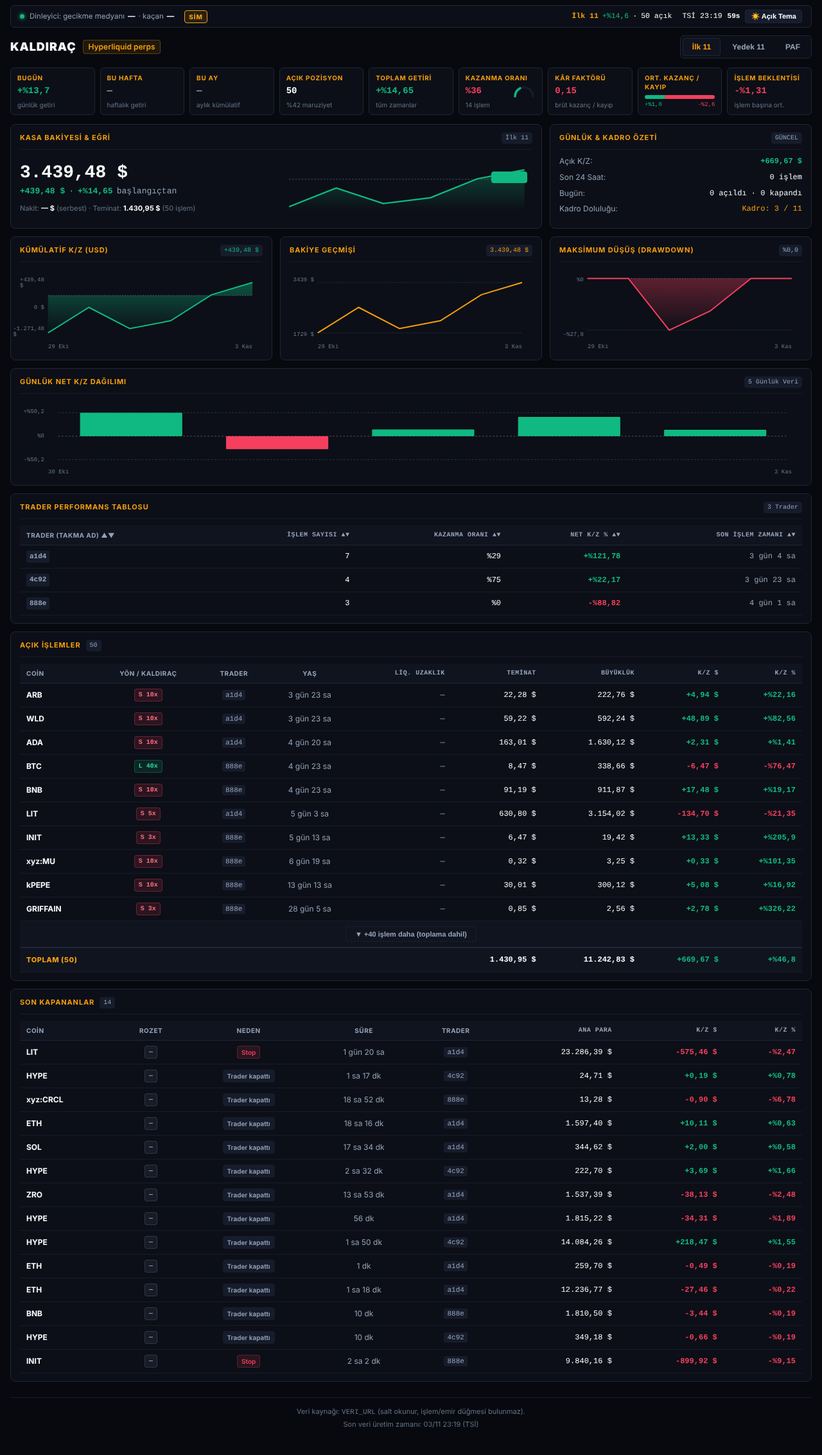
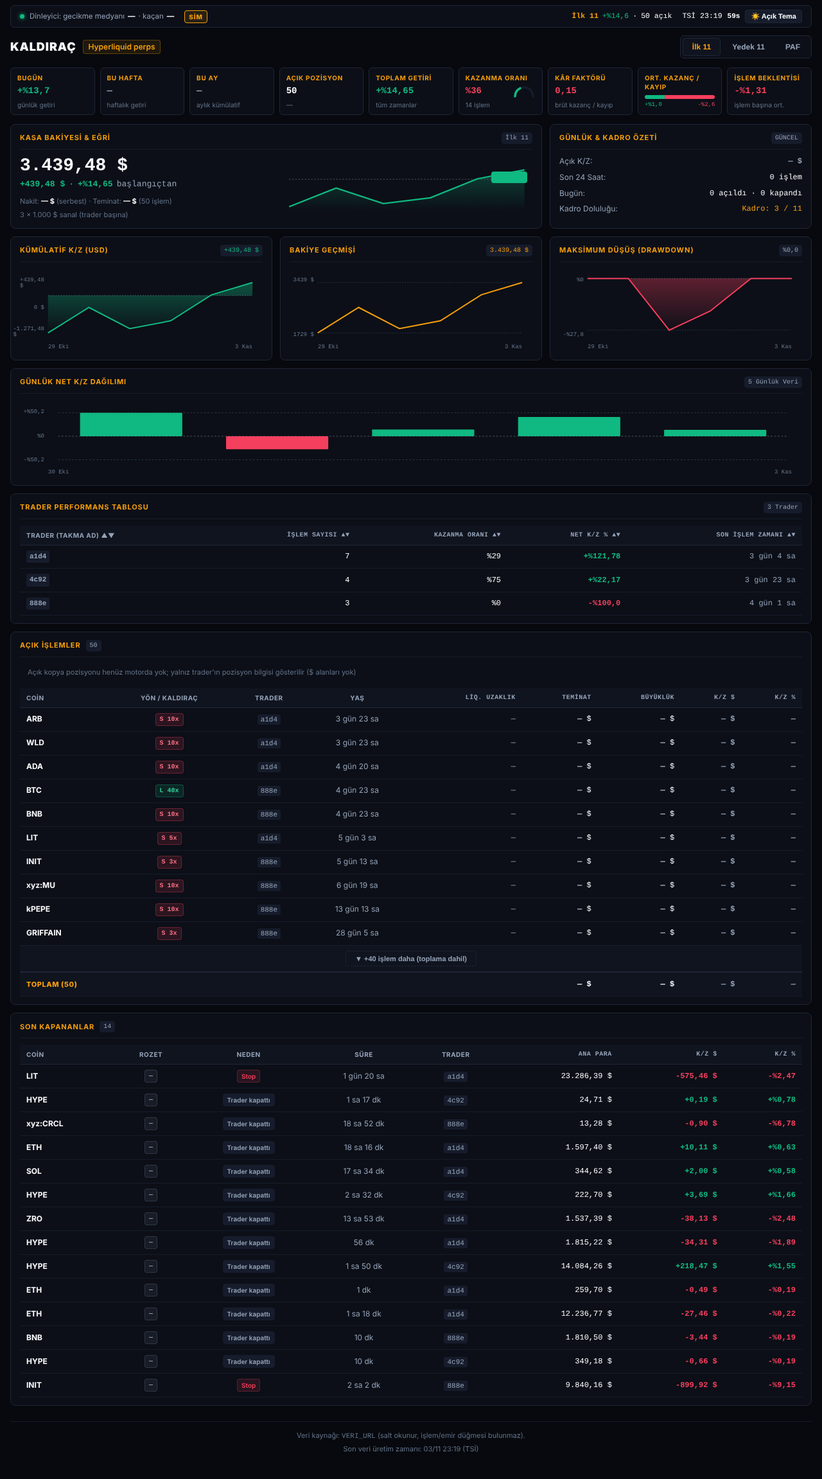
Pano: açık işlemlerde yalnız trader bilgisi ($ alanları null), kasa ölçek notu, net_oran=getiri, TOPLAM satırı null-güvenli, ekran görüntüleri
Claude-Session: https://claude.ai/code/session_01MMmx1yUW1gNqcdZMK3Fk7w

diff --git a/pano/pano.js b/pano/pano.js
@@ -616,6 +616,11 @@ function kasaKartiniCiz(takim) {
   const takimAdEl = document.getElementById('kasa-takim-ad');
 
   if (takimAdEl) takimAdEl.textContent = kacis(takim.ad);
+  // Ölçek notları motordan gelir (pano.json): kasa "N × 1.000 $ sanal (trader başına)"; açık işlemler "açık kopya pozisyonu henüz motorda yok"
+  const kasaNotEl = document.getElementById('kasa-olcek-notu');
+  if (kasaNotEl) kasaNotEl.textContent = kasa.olcek_notu ? String(kasa.olcek_notu) : '';
+  const acikNotEl = document.getElementById('acik-olcek-notu');
+  if (acikNotEl) acikNotEl.textContent = (panoVerisi.olcek && panoVerisi.olcek.acik_islemler) ? String(panoVerisi.olcek.acik_islemler) : '';
   if (bakiyeEl) bakiyeEl.textContent = formatPara(kasa.bakiye_usd);
 
   if (degisimEl) {
@@ -1308,17 +1313,13 @@ function toplamSatiriniCiz(acikListesi) {
   const tfoot = document.getElementById('acik-islemler-foot');
   if (!tfoot) return;
 
-  let toplamTeminat = 0;
-  let toplamBuyukluk = 0;
-  let toplamKzUsd = 0;
-
-  acikListesi.forEach(pos => {
-    toplamTeminat += Number(pos.teminat_usd) || 0;
-    toplamBuyukluk += Number(pos.buyukluk_usd) || 0;
-    toplamKzUsd += Number(pos.kz_usd) || 0;
-  });
-
-  const toplamKzOran = toplamTeminat > 0 ? (toplamKzUsd / toplamTeminat) : 0;
+  // Eksik alan uydurulmaz: bir satırda değer yoksa (null) toplam da yoktur ("—"); sıfır gösterilmez.
+  const topla = (alan) => (acikListesi.length && acikListesi.every(p => typeof p[alan] === 'number' && isFinite(p[alan])))
+    ? acikListesi.reduce((t, p) => t + p[alan], 0) : null;
+  const toplamTeminat = topla('teminat_usd');
+  const toplamBuyukluk = topla('buyukluk_usd');
+  const toplamKzUsd = topla('kz_usd');
+  const toplamKzOran = (toplamKzUsd !== null && toplamTeminat !== null && toplamTeminat > 0) ? (toplamKzUsd / toplamTeminat) : null;
   const kzCls = kzSinifi(toplamKzUsd);
 
   tfoot.innerHTML = `

diff --git a/pano/index.html b/pano/index.html
@@ -165,6 +165,7 @@
               Nakit: <strong id="ozet-nakit" style="color:var(--text-primary);">— $</strong> (serbest) · 
               Teminat: <strong id="ozet-teminat" style="color:var(--text-primary);">— $</strong> (<span id="ozet-teminat-alt">—</span>)
             </div>
+            <div style="margin-top:6px;font-size:11px;color:var(--text-muted);" id="kasa-olcek-notu"></div>
           </div>
           <div class="chart-box" id="kasa-grafik" style="height:100px;"></div>
         </div>
@@ -265,6 +266,7 @@
             <span class="panel-badge" id="acik-islem-sayisi">0</span>
           </div>
         </div>
+        <div style="padding:6px 12px;font-size:11px;color:var(--text-muted);" id="acik-olcek-notu"></div>
         <div class="table-responsive">
           <table class="terminal-table">
             <thead>

diff --git a/tests/test_pano_veri.py b/tests/test_pano_veri.py
@@ -24,9 +24,9 @@ def durum():
     poz_a = [{"coin": "BTC", "yon": "long", "giris": 68000.0, "buyukluk_usd": 50000.0, "kaldirac": 5.0, "anlik_kz_usd": 2000.0, "acilis": "2026-11-03T02:00:00Z"},
              {"coin": "ETH", "yon": "short", "giris": 2600.0, "buyukluk_usd": 20000.0, "kaldirac": 4.0, "anlik_kz_usd": -500.0, "acilis": "2026-11-02T20:00:00Z"}]
     poz_b = [{"coin": "SOL", "yon": "long", "giris": 150.0, "buyukluk_usd": 40000.0, "kaldirac": 10.0, "anlik_kz_usd": 1000.0, "acilis": "2026-11-03T03:00:00Z"}]
-    v3_a = {"surum": "v3", "baslangic_usd": 1000, "bakiye_usd": 1100.0, "toplam": 0.1, "egri": [["2026-11-01", 1000.0], ["2026-11-02", 1050.0], ["2026-11-03", 1100.0]],
+    v3_a = {"surum": "v3", "baslangic_usd": 1000, "bakiye_usd": 1100.0, "getiri": 0.1, "toplam": 0.1, "egri": [["2026-11-01", 1000.0], ["2026-11-02", 1050.0], ["2026-11-03", 1100.0]],
             "kapanan_islemler": [{"coin": "BTC", "acilis": "2026-11-03T01:00:00Z", "kapanis": "2026-11-03T05:00:00Z", "sonuc_usd": 20.0, "getiri": 0.2, "neden": "trader", "gecerli": True}]}
-    v3_b = {"surum": "v3", "baslangic_usd": 1000, "bakiye_usd": 990.0, "toplam": -0.01, "egri": [["2026-11-01", 1000.0], ["2026-11-02", 995.0], ["2026-11-03", 990.0]],
+    v3_b = {"surum": "v3", "baslangic_usd": 1000, "bakiye_usd": 990.0, "getiri": -0.01, "toplam": -0.01, "egri": [["2026-11-01", 1000.0], ["2026-11-02", 995.0], ["2026-11-03", 990.0]],
             "kapanan_islemler": [{"coin": "SOL", "acilis": "2026-11-02T08:00:00Z", "kapanis": "2026-11-02T10:00:00Z", "sonuc_usd": -5.0, "getiri": -0.05, "neden": "zarar_kes", "gecerli": True}]}
     return {"surum": 1, "uretildi": REF, "traderlar": [trader(A, "aaaa", 10000.0, poz_a, v3_a), trader(B, "bbbb", 20000.0, poz_b, v3_b)]}
 
@@ -46,29 +46,31 @@ def test_altin_ornek_iki_takim_uc_acik_iki_kapanmis():
     i, y = takim(v, "İlk 11"), takim(v, "Yedek 11")
     # İlk 11 / kasa: 1.000 -> 1.100 (+100 $, +%10)
     assert i["kasa"] == {"baslangic_usd": 1000.0, "bakiye_usd": 1100.0, "degisim_usd": 100.0, "degisim_oran": 0.1,
-                         "egri": [["2026-11-01T00:00:00Z", 1000.0], ["2026-11-02T00:00:00Z", 1050.0], ["2026-11-03T00:00:00Z", 1100.0]]}
-    # açık işlemler (ölçek 0,1): BTC büyüklük 5.000, teminat 1.000, K/Z 200 $ (+%20 teminata); ETH 2.000 / 500 / −50 $ (−%10)
+                         "egri": [["2026-11-01T00:00:00Z", 1000.0], ["2026-11-02T00:00:00Z", 1050.0], ["2026-11-03T00:00:00Z", 1100.0]],
+                         "olcek_notu": "1 × 1.000 $ sanal (trader başına)"}
+    # açık işlemler: yalnız trader pozisyon bilgisi (lider kararı); $ alanları ve kz_oran null — oranlı ölçek sayıları yayımlanmaz
     btc, eth = (next(a for a in i["acik"] if a["coin"] == c) for c in ("BTC", "ETH"))
-    assert (btc["buyukluk_usd"], btc["teminat_usd"], btc["kz_usd"], btc["kz_oran"], btc["kaldirac"], btc["trader"]) == (5000.0, 1000.0, 200.0, 0.2, 5.0, "aaaa")
-    assert (eth["buyukluk_usd"], eth["teminat_usd"], eth["kz_usd"], eth["kz_oran"]) == (2000.0, 500.0, -50.0, -0.1)
-    assert btc["son"] is None and btc["likidasyona_uzaklik_oran"] is None                              # motorda yok -> null
+    assert (btc["coin"], btc["yon"], btc["kaldirac"], btc["trader"], btc["acilis"]) == ("BTC", "long", 5.0, "aaaa", "2026-11-03T02:00:00Z")
+    assert (eth["yon"], eth["kaldirac"]) == ("short", 4.0)
+    for a in i["acik"] + takim(v, "Yedek 11")["acik"]:
+        assert all(a[k] is None for k in ("teminat_usd", "buyukluk_usd", "giris", "son", "kz_usd", "kz_oran", "likidasyona_uzaklik_oran")), a
     o = i["ozet"]
-    assert (o["acik_islem"], o["acik_teminat_usd"], o["acik_kz_usd"]) == (2, 1500.0, 150.0)
+    assert (o["acik_islem"], o["acik_teminat_usd"], o["acik_kz_usd"]) == (2, None, None)                  # acik'tan türeyen $ alanları null; sayı trader pozisyon adedi
     assert (o["bugun_acilan"], o["bugun_kapanan"], o["son24_islem"], o["son24_kazanma_orani"]) == (2, 1, 1, 1.0)       # BTC açık + BTC kapanan bugün açıldı
     assert (o["kadro_dolu"], o["kadro_toplam"], o["nakit_usd"], o["islem_basi_usd"]) == (1, 2, None, None)
+    assert i["kasa"]["olcek_notu"] == "1 × 1.000 $ sanal (trader başına)" and "henüz motorda yok" in v["olcek"]["acik_islemler"]
     # kapanan: ana para = 20 / 0,2 = 100 $; neden trader -> trader_kapatti
     assert i["kapanan"] == [{"coin": "BTC", "yon": None, "kaldirac": None, "trader": "aaaa", "acilis": "2026-11-03T01:00:00Z", "kapanis": "2026-11-03T05:00:00Z",
                              "neden": "trader_kapatti", "ana_para_usd": 100.0, "kz_usd": 20.0, "kz_oran": 0.2}]
     m = i["metrik"]
     assert m["bugun_oran"] == pytest.approx(50 / 1050, abs=1e-6) and m["toplam_oran"] == 0.1 and m["hafta_oran"] is None and m["ay_oran"] is None
-    assert m["maruziyet_oran"] == pytest.approx(1500 / 1100, abs=1e-6) and (m["kazanma_orani"], m["ort_kazanc_oran"], m["beklenti_oran"], m["islem_sayisi"]) == (1.0, 0.2, 0.2, 1)
+    assert m["maruziyet_oran"] is None and (m["kazanma_orani"], m["ort_kazanc_oran"], m["beklenti_oran"], m["islem_sayisi"]) == (1.0, 0.2, 0.2, 1)
     assert m["kar_faktoru"] is None and m["ort_kayip_oran"] is None                                      # kayıp yok -> tanımsız
     assert i["seriler"]["bakiye"][-1] == ["2026-11-03", 1100.0] and i["seriler"]["kumulatif_kz"][-1] == ["2026-11-03", 100.0]
     assert i["seriler"]["gunluk_kz"] == [["2026-11-02", 0.05], ["2026-11-03", 0.047619]] and i["seriler"]["dusus"][-1] == ["2026-11-03", 0.0]
     assert i["traderlar"] == [{"ad": "aaaa", "islem": 1, "kazanma_orani": 1.0, "net_oran": 0.1, "son_islem": "2026-11-03T05:00:00Z"}]
-    # Yedek 11 (ölçek 0,05): SOL büyüklük 2.000, teminat 200, K/Z 50 $ (+%25); kasa 1.000 -> 990 (−10 $, −%1)
-    s = y["acik"][0]
-    assert (s["buyukluk_usd"], s["teminat_usd"], s["kz_usd"], s["kz_oran"]) == (2000.0, 200.0, 50.0, 0.25)
+    # Yedek 11: SOL açık (yalnız trader bilgisi); kasa 1.000 -> 990 (−10 $, −%1)
+    assert y["acik"][0]["coin"] == "SOL" and y["acik"][0]["kaldirac"] == 10.0
     assert (y["kasa"]["bakiye_usd"], y["kasa"]["degisim_usd"], y["kasa"]["degisim_oran"]) == (990.0, -10.0, -0.01)
     assert (y["ozet"]["bugun_acilan"], y["ozet"]["bugun_kapanan"], y["ozet"]["son24_islem"], y["ozet"]["son24_kazanma_orani"]) == (1, 0, 0, None)
     assert (y["metrik"]["kazanma_orani"], y["metrik"]["kar_faktoru"], y["metrik"]["ort_kayip_oran"]) == (0.0, 0.0, -0.05)
@@ -79,23 +81,19 @@ def test_altin_ornek_iki_takim_uc_acik_iki_kapanmis():
 
 def test_eksik_alan_null_uydurulmaz():
     d = durum()
-    p = d["traderlar"][0]["pozisyonlar"][0]
-    del p["anlik_kz_usd"], p["kaldirac"]
-    del d["traderlar"][1]["sanal_kopya_v3"]["toplam"]
+    del d["traderlar"][0]["pozisyonlar"][0]["kaldirac"]
+    del d["traderlar"][1]["sanal_kopya_v3"]["getiri"]
     d["traderlar"][1]["sanal_kopya_v3"]["kapanan_islemler"][0]["getiri"] = None
     v = pano_veri.pano_uret(d, LISTE, SNAP, SIMDI)
     btc = next(a for a in takim(v, "İlk 11")["acik"] if a["coin"] == "BTC")
-    assert (btc["kz_usd"], btc["kz_oran"], btc["teminat_usd"], btc["kaldirac"]) == (None, None, None, None) and btc["buyukluk_usd"] == 5000.0
-    o = takim(v, "İlk 11")["ozet"]
-    assert o["acik_teminat_usd"] is None and o["acik_kz_usd"] is None and o["acik_islem"] == 2          # biri eksikse toplam null; sayı sıfır değil
-    assert takim(v, "İlk 11")["metrik"]["maruziyet_oran"] is None
+    assert btc["kaldirac"] is None and btc["coin"] == "BTC"
     y = takim(v, "Yedek 11")
     assert y["traderlar"][0]["net_oran"] is None and y["kapanan"][0]["ana_para_usd"] is None and y["kapanan"][0]["kz_oran"] is None and y["kapanan"][0]["kz_usd"] == -5.0
     # v3 hiç yoksa takım verisi null (0 değil)
     d2 = durum()
     d2["traderlar"][0]["sanal_kopya_v3"] = {"surum": "v3", "durum": "hesaplanamadi"}
     t = takim(pano_veri.pano_uret(d2, LISTE, SNAP, SIMDI), "İlk 11")
-    assert t["kasa"]["bakiye_usd"] is None and t["ozet"]["acik_islem"] is None and t["acik"] == [] and t["ozet"]["kadro_dolu"] == 0
+    assert t["kasa"]["bakiye_usd"] is None and t["kasa"]["olcek_notu"] is None and t["ozet"]["acik_islem"] is None and t["acik"] == [] and t["ozet"]["kadro_dolu"] == 0
 
 
 def test_baslamamis_uye_t0_gelecekte_toplamlara_girmez():
@@ -114,10 +112,17 @@ def test_acilis_bos_metin_null_olur():
     assert next(a for a in takim(pano_veri.pano_uret(d, LISTE, SNAP, SIMDI), "İlk 11")["acik"] if a["coin"] == "BTC")["acilis"] is None
 
 
+def test_net_oran_getiri_kullanir_tasfiyede_toplam_degil():
+    """Tasfiye olan kopyada `toplam` (gerçekleşen+açık) −0,888 olabilir ama bakiye 0'dır (`getiri` −1,0): pano bakiye ile tutarlı `getiri`'yi gösterir."""
+    d = durum()
+    d["traderlar"][0]["sanal_kopya_v3"].update({"bakiye_usd": 0.0, "getiri": -1.0, "toplam": -0.888, "tasfiye": True})
+    assert takim(pano_veri.pano_uret(d, LISTE, SNAP, SIMDI), "İlk 11")["traderlar"][0]["net_oran"] == -1.0
+
+
 def test_bos_takim():
     v = pano_veri.pano_uret(durum(), LISTE, SNAP, SIMDI)
     paf = takim(v, "PAF")
-    assert paf["kasa"] == {"baslangic_usd": None, "bakiye_usd": None, "degisim_usd": None, "degisim_oran": None, "egri": []}
+    assert paf["kasa"] == {"baslangic_usd": None, "bakiye_usd": None, "degisim_usd": None, "degisim_oran": None, "egri": [], "olcek_notu": None}
     assert paf["acik"] == [] and paf["kapanan"] == [] and paf["traderlar"] == [] and all(x == [] for x in paf["seriler"].values())
     assert (paf["ozet"]["kadro_dolu"], paf["ozet"]["kadro_toplam"], paf["ozet"]["acik_islem"]) == (0, 1, None)
     assert all(x is None for x in paf["metrik"].values())
@@ -139,7 +144,7 @@ def test_bicim_ornek_veri_ile_ayni_ek_alanlar_haric_ve_gizlilik():
     assert set(v) - set(ornek) == {"tazelik", "olcek"} and set(ornek) <= set(v)
     for ad in ("İlk 11", "Yedek 11"):
         t, o = takim(v, ad), ornek["takimlar"][0]
-        assert set(t) == set(o) and all(set(t[k]) == set(o[k]) for k in ("kasa", "ozet", "metrik", "seriler"))
+        assert set(t) == set(o) and all(set(t[k]) == set(o[k]) for k in ("ozet", "metrik", "seriler")) and set(t["kasa"]) - set(o["kasa"]) == {"olcek_notu"}
         assert t["acik"] == [] or set(t["acik"][0]) == set(o["acik"][0])
         assert t["kapanan"] == [] or set(t["kapanan"][0]) == set(o["kapanan"][0])
         assert t["traderlar"] == [] or set(t["traderlar"][0]) == set(o["traderlar"][0])

diff --git a/copytrade/pano_veri.py b/copytrade/pano_veri.py
@@ -67,18 +67,12 @@ def v3_gecerli(trader: dict) -> dict | None:
 
 
 def acik_islemler(trader: dict) -> list[dict]:
-    """Trader pozisyonları, 1.000 $ sanal hesaba ORANLI ölçekte (ölçek = 1.000 / trader hesap değeri; v1/v2 ölçeği). Motorda olmayan alan `null`."""
-    hesap = _sayi(trader.get("hesap_degeri"))
-    olcek = BAZ_USD / hesap if hesap and hesap > 0 else None
+    """Açık işlemler: YALNIZ trader'ın pozisyon bilgisi (coin, yön, kaldıraç, trader, açılış). Açık KOPYA pozisyonu henüz motorda yok (v3 listelemiyor); trader pozisyonunu
+    1.000 $'a oranlayıp $ / K/Z üretmek kullanıcıyı yanıltır (lider kararı 2026-11-03) → tüm $ alanları ve `kz_oran` `null`."""
     cikti = []
     for poz in trader.get("pozisyonlar") or []:
-        buyukluk, kz, kaldirac = _sayi(poz.get("buyukluk_usd")), _sayi(poz.get("anlik_kz_usd")), _sayi(poz.get("kaldirac"))
-        buyukluk_k = None if buyukluk is None or olcek is None else abs(buyukluk) * olcek
-        teminat = None if buyukluk_k is None or not kaldirac or kaldirac <= 0 else buyukluk_k / kaldirac
-        kz_k = None if kz is None or olcek is None else kz * olcek
-        cikti.append({"coin": poz.get("coin"), "yon": poz.get("yon"), "kaldirac": kaldirac, "trader": trader.get("takma_ad"), "acilis": poz.get("acilis") or None,
-                      "teminat_usd": _yuvarla(teminat, 4), "buyukluk_usd": _yuvarla(buyukluk_k, 4), "giris": _sayi(poz.get("giris")), "son": None,
-                      "kz_usd": _yuvarla(kz_k, 4), "kz_oran": _yuvarla(_oran(kz_k, teminat), 6), "likidasyona_uzaklik_oran": None})
+        cikti.append({"coin": poz.get("coin"), "yon": poz.get("yon"), "kaldirac": _sayi(poz.get("kaldirac")), "trader": trader.get("takma_ad"), "acilis": poz.get("acilis") or None,
+                      "teminat_usd": None, "buyukluk_usd": None, "giris": None, "son": None, "kz_usd": None, "kz_oran": None, "likidasyona_uzaklik_oran": None})
     return cikti
 
 
@@ -134,7 +128,7 @@ def takim_uret(takim_ad: str, uyeler: list[dict], durum_traderlar: dict[str, dic
     getiriler = [k["kz_oran"] for k in kapanan_tum if k["kz_oran"] is not None]
     kazan_g = [g for k in kapanan_tum if (g := k["kz_oran"]) is not None and (k["kz_usd"] or 0) > 0]
     kayip_g = [g for k in kapanan_tum if (g := k["kz_oran"]) is not None and (k["kz_usd"] or 0) <= 0]
-    teminat = _toplam([a["teminat_usd"] for a in acik]) if var else None
+    teminat = _toplam([a["teminat_usd"] for a in acik]) if var else None          # `acik` $ alanları null olduğundan None
     kz_acik = _toplam([a["kz_usd"] for a in acik]) if var else None
     kayip_toplam = sum(-x for x in kazanc if x <= 0)
     degisim = None if bakiye is None else bakiye - baslangic
@@ -166,10 +160,11 @@ def takim_uret(takim_ad: str, uyeler: list[dict], durum_traderlar: dict[str, dic
     for u, t, v in v3li:
         k = kapanan_islemler(t)
         traderlar.append({"ad": t.get("takma_ad"), "islem": len(k), "kazanma_orani": _yuvarla(_oran(sum(1 for x in k if (x["kz_usd"] or 0) > 0), len(k)), 6),
-                          "net_oran": _yuvarla(_sayi(v.get("toplam")), 6), "son_islem": max((str(x["kapanis"]) for x in k if x["kapanis"]), default=None)})
+                          "net_oran": _yuvarla(_sayi(v.get("getiri")), 6), "son_islem": max((str(x["kapanis"]) for x in k if x["kapanis"]), default=None)})
     return {"ad": takim_ad,
             "kasa": {"baslangic_usd": _yuvarla(baslangic, 4), "bakiye_usd": _yuvarla(bakiye, 4), "degisim_usd": _yuvarla(degisim, 4),
-                     "degisim_oran": _yuvarla(_oran(degisim, baslangic), 6), "egri": [[f"{g}T00:00:00Z", round(v, 4)] for g, v in egri[-SERI_LIMIT:]]},
+                     "degisim_oran": _yuvarla(_oran(degisim, baslangic), 6), "egri": [[f"{g}T00:00:00Z", round(v, 4)] for g, v in egri[-SERI_LIMIT:]],
+                     "olcek_notu": f"{len(v3li)} × 1.000 $ sanal (trader başına)" if var else None},
             "ozet": ozet, "metrik": metrik,
             "seriler": {"kumulatif_kz": [[g, round(v - baslangic, 4)] for g, v in bakiye_seri], "bakiye": [[g, round(v, 4)] for g, v in bakiye_seri],
                         "dusus": [[g, round(d, 6)] for g, d in dusus[-SERI_LIMIT:]], "gunluk_kz": [[g, round(d, 6)] for g, d in gunluk[-SERI_LIMIT:] if d is not None]},
@@ -192,7 +187,7 @@ def pano_uret(durum: dict, liste: dict, snapshot: dict | None, simdi: datetime |
             "tazelik": {"kaynak_uretildi": _iso(kaynak) if kaynak else None, "pano_uretildi": _iso(simdi), "yas_dk": None if yas is None else round(yas, 1),
                         "esik_dk": BAYAT_DK, "bayat": True if yas is None else yas > BAYAT_DK},
             "olcek": {"kasa_ve_kapanan": "1.000 $ sanal kopya, sabit tutar (sanal_kopya_v3), trader başına; takım değeri üyelerin TOPLAMI",
-                      "acik_islemler": "1.000 $ sanal hesaba ORANLI (ölçek = 1.000 / trader hesap değeri); trader pozisyonundan, v3 sabit tutarından değil"},
+                      "acik_islemler": "Açık kopya pozisyonu henüz motorda yok; yalnız trader'ın pozisyon bilgisi gösterilir ($ alanları yok)"},
             "takimlar": [takim_uret(ad, uyeler[k], tr, toplam[k], ref) for k, ad in TAKIMLAR]}
 
 

diff --git a/docs/VERI_SOZLESMESI.md b/docs/VERI_SOZLESMESI.md
@@ -412,9 +412,9 @@ Girdiler (yalnız okunur): `copytrade-izleme:izleme/durum.json`, `copytrade-kapi
 Biçim `pano/ornek_veri.json` ile aynıdır; **panonun JS'i hiçbir şey hesaplamaz** (AGENTS kural 7). Motorda olmayan alan **`null`** (pano "—" gösterir); eksik alan sıfır sayılmaz, uydurulmaz: bir toplamın bir bileşeni `null` ise toplam `null`.
 Oranlar kesirdir (0,012 = %1,2); zaman UTC; üyelik yalnız `takim` alanından (`kol` / `kollar` kullanılmaz). Takımlar sabit sırayla: `İlk 11`, `Yedek 11`, `PAF`.
 
-**İki ölçek (ekranda karışmasın diye `olcek` bloğunda yazılıdır):**
-- **Sabit tutar (v3)** = `sanal_kopya_v3`, trader başına 1.000 $ sanal kopya (kopya hesabının kendi değerine göre sabit $ tutarla açılış): `kasa`, `seriler`, `metrik`, `kapanan`, `traderlar`. **Takım değeri üyelerin TOPLAMIDIR** (her üye 1.000 $ ile başlar): `kasa.baslangic_usd` = 1.000 × veri veren üye sayısı.
-- **Trader hesabına ORANLI 1.000 $** (v1/v2 ölçeği) = yalnız `acik` (açık işlemler) ve ona bağlı `ozet` alanları: ölçek = 1.000 / `hesap_degeri` (trader hesap değeri, $). Açık kopya pozisyonu motorda v3 sabit tutarıyla listelenmediği için (`kapanan_islemler`: "açık işlem listelenmez") açık satırlar trader pozisyonundan bu ölçekle türetilir. İki ölçek toplamda uzlaşmaz (ör. `kasa.bakiye_usd` v3, `acik_kz_usd` oranlı).
+**Ölçek (ekranda ve `olcek` bloğunda yazılıdır):**
+- **Sabit tutar (v3)** = `sanal_kopya_v3`, trader başına 1.000 $ sanal kopya (kopya hesabının kendi değerine göre sabit $ tutarla açılış): `kasa`, `seriler`, `metrik`, `kapanan`, `traderlar`. **Takım değeri üyelerin TOPLAMIDIR** (her üye 1.000 $ ile başlar): `kasa.baslangic_usd` = 1.000 × toplama giren üye sayısı. `kasa.olcek_notu` = `"<N> × 1.000 $ sanal (trader başına)"` (pano kasa kartında gösterir).
+- **Açık işlemler: açık KOPYA pozisyonu henüz motorda YOK** (lider kararı 2026-11-03; ayrı iş: v3 açık pozisyon listesi). `acik[]` yalnız trader'ın pozisyon bilgisini taşır (`coin`, `yon`, `kaldirac`, `trader`, `acilis`); **tüm $ alanları ve `kz_oran` `null`** (trader pozisyonunu 1.000 $'a oranlamak kullanıcıyı yanıltır, yayımlanmaz). `olcek.acik_islemler` bu notu taşır (pano açık işlemler başlığının altında gösterir).
 
 | Alan | Birim / anlam |
 |---|---|
@@ -425,18 +425,18 @@ Oranlar kesirdir (0,012 = %1,2); zaman UTC; üyelik yalnız `takim` alanından (
 | `kasa.degisim_oran` | oran = `degisim_usd` / `baslangic_usd` |
 | `kasa.egri` | `[[UTC ISO gün başı, $]]`, son 30 gün: üyelerin `sanal_kopya_v3.egri` günlük değerlerinin toplamı, yalnız TÜM üyelerde değeri olan günler (eksik gün için değer uydurulmaz) |
 | `ozet.nakit_usd`, `islem_basi_usd` | `null` (motorda yok: v3 nakit/teminat ayrımı ve tek işlem tutarı yayımlanmaz) |
-| `ozet.acik_islem` | adet = `acik` satır sayısı (oranlı ölçek, trader pozisyonları) |
-| `ozet.acik_teminat_usd` / `acik_kz_usd` | $, oranlı ölçek: `acik[].teminat_usd` / `kz_usd` toplamı (TOPLAM satırı ile aynı) |
-| `ozet.bugun_acilan` / `bugun_kapanan` | adet; "bugün" = `uretildi` (kaynak) tarihinin UTC günü. Açılan = bugün açılan `acik` + bugün açılıp bugün/sonra kapanan işlemler (kırpılmış `kapanan_islemler`); kapanan = `kapanis` bugün olanlar |
+| `ozet.acik_islem` | adet = `acik` satır sayısı (trader pozisyon adedi; kopya pozisyonu değil) |
+| `ozet.acik_teminat_usd` / `acik_kz_usd` | `null` (`acik`'tan türeyen $ alanları; açık kopya pozisyonu motorda yok) |
+| `ozet.bugun_acilan` / `bugun_kapanan` | adet; "bugün" = `uretildi` (kaynak) tarihinin UTC günü. Açılan = bugün açılan `acik` (trader pozisyonu) + bugün açılıp bugün/sonra kapanan işlemler (kırpılmış `kapanan_islemler`); kapanan = `kapanis` bugün olanlar |
 | `ozet.son24_islem` / `son24_kazanma_orani` | adet / oran: `kapanis` ∈ (`uretildi` − 24 sa, `uretildi`] olan kapanmış işlemler; kazanma = `sonuc_usd` > 0 (işlem yoksa oran `null`) |
 | `ozet.kadro_dolu` / `kadro_toplam` | adet: `durum.json`'da geçerli v3 verisi olan üye (kopyası henüz başlamamış olanlar dahil) / snapshot `kadro`'da o takımın üye sayısı (snapshot yoksa `null`) |
 | `metrik.bugun_oran` / `hafta_oran` / `ay_oran` | oran: `kasa.egri` son gün / (1, 7, 30 gün önceki gün) − 1; o gün seride yoksa `null` (komşu günle yaklaşıklama yok) |
 | `metrik.toplam_oran` | oran = `kasa.degisim_oran` |
-| `metrik.maruziyet_oran` | oran = `acik_teminat_usd` / `kasa.bakiye_usd` (iki ölçek karışık: bilgi amaçlı) |
+| `metrik.maruziyet_oran` | `null` (açık teminat yok) |
 | `metrik.kazanma_orani`, `kar_faktoru`, `ort_kazanc_oran`, `ort_kayip_oran`, `beklenti_oran`, `islem_sayisi` | `durum.json`'daki (KIRPILMIŞ, §`kapanan_islemler`) geçerli kapanmış işlemlerden: kazanma = `sonuc_usd` > 0 payı; kâr faktörü = Σ kazanç $ / Σ zarar $ (zarar yoksa `null`); ort. kazanç/kayıp = kazanan/kaybeden işlemlerin `getiri` ortalaması; beklenti = tüm `getiri` ortalaması; `islem_sayisi` = işlem adedi (tam geçmiş değil) |
 | `seriler.bakiye` | `[[gün, $]]` = `kasa.egri`; `kumulatif_kz` = bakiye − başlangıç ($); `dusus` = bakiye / zirve − 1 (oran, ≤ 0); `gunluk_kz` = bakiye / önceki gün bakiye − 1 (oran) |
-| `traderlar[]` | `ad` (`takma_ad`), `islem` (adet), `kazanma_orani` (oran), `net_oran` (oran = `sanal_kopya_v3.toplam`), `son_islem` (UTC ISO, son `kapanis`) |
-| `acik[]` | `coin`, `yon`, `kaldirac` (x), `trader` (`takma_ad`), `acilis` (UTC ISO), `giris` ($/coin), `buyukluk_usd` = trader büyüklüğü × ölçek ($), `teminat_usd` = `buyukluk_usd` / `kaldirac` ($), `kz_usd` = trader anlık K/Z × ölçek ($), `kz_oran` = `kz_usd` / `teminat_usd` (oran); `son` (son fiyat) ve `likidasyona_uzaklik_oran` motorda yok → `null`. En yeni açılış önce |
+| `traderlar[]` | `ad` (`takma_ad`), `islem` (adet), `kazanma_orani` (oran), `net_oran` (oran = `sanal_kopya_v3.getiri` = bakiye / başlangıç − 1; tasfiyede `toplam`'dan farklı olabilir, bakiye ile tutarlı olan `getiri` alınır), `son_islem` (UTC ISO, son `kapanis`) |
+| `acik[]` | `coin`, `yon`, `kaldirac` (x), `trader` (`takma_ad`), `acilis` (UTC ISO; motor boş yazarsa `null`); `teminat_usd`, `buyukluk_usd`, `giris`, `son`, `kz_usd`, `kz_oran`, `likidasyona_uzaklik_oran` HEPSİ `null`. En yeni açılış önce |
 | `kapanan[]` | son 20 geçerli işlem (kapanış sırasıyla, en yeni önce), v3 ölçeği: `coin`, `acilis`/`kapanis` (UTC ISO), `kz_usd` = `sonuc_usd` ($, maliyet + funding dahil), `kz_oran` = `getiri`, `ana_para_usd` = `sonuc_usd` / `getiri` ($, açılan toplam tutar), `neden`: `trader` → `trader_kapatti`, `zarar_kes` → `stop`, `likidasyon` → `tasfiye`, `kar_al` → `null` (panoda karşılığı yok); `yon` ve `kaldirac` motorda yok → `null` |
 
 **Başlamamış üye:** kopya `t0`'da başlar. `t0` > `uretildi` tarihi olan üyenin pozisyonları kopya işlemi değildir; o üye `kasa`, `acik`, `kapanan`, `ozet`, `metrik`, `seriler` ve `traderlar` toplamlarına GİRMEZ (yalnız `kadro_dolu`'ya sayılır). Takımda toplama giren üye yoksa tüm bu alanlar `null` / boş liste.
